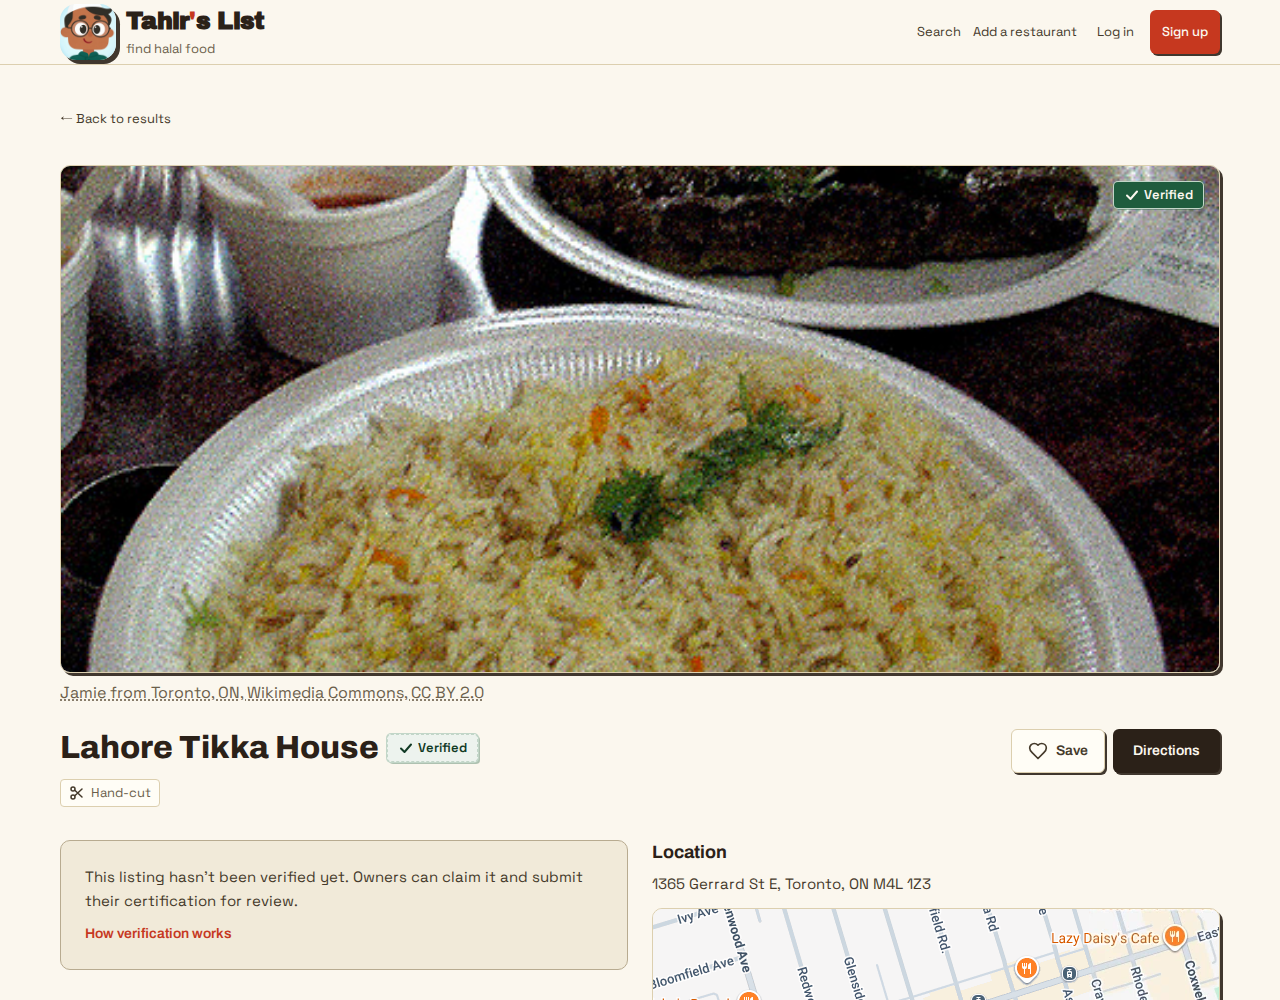
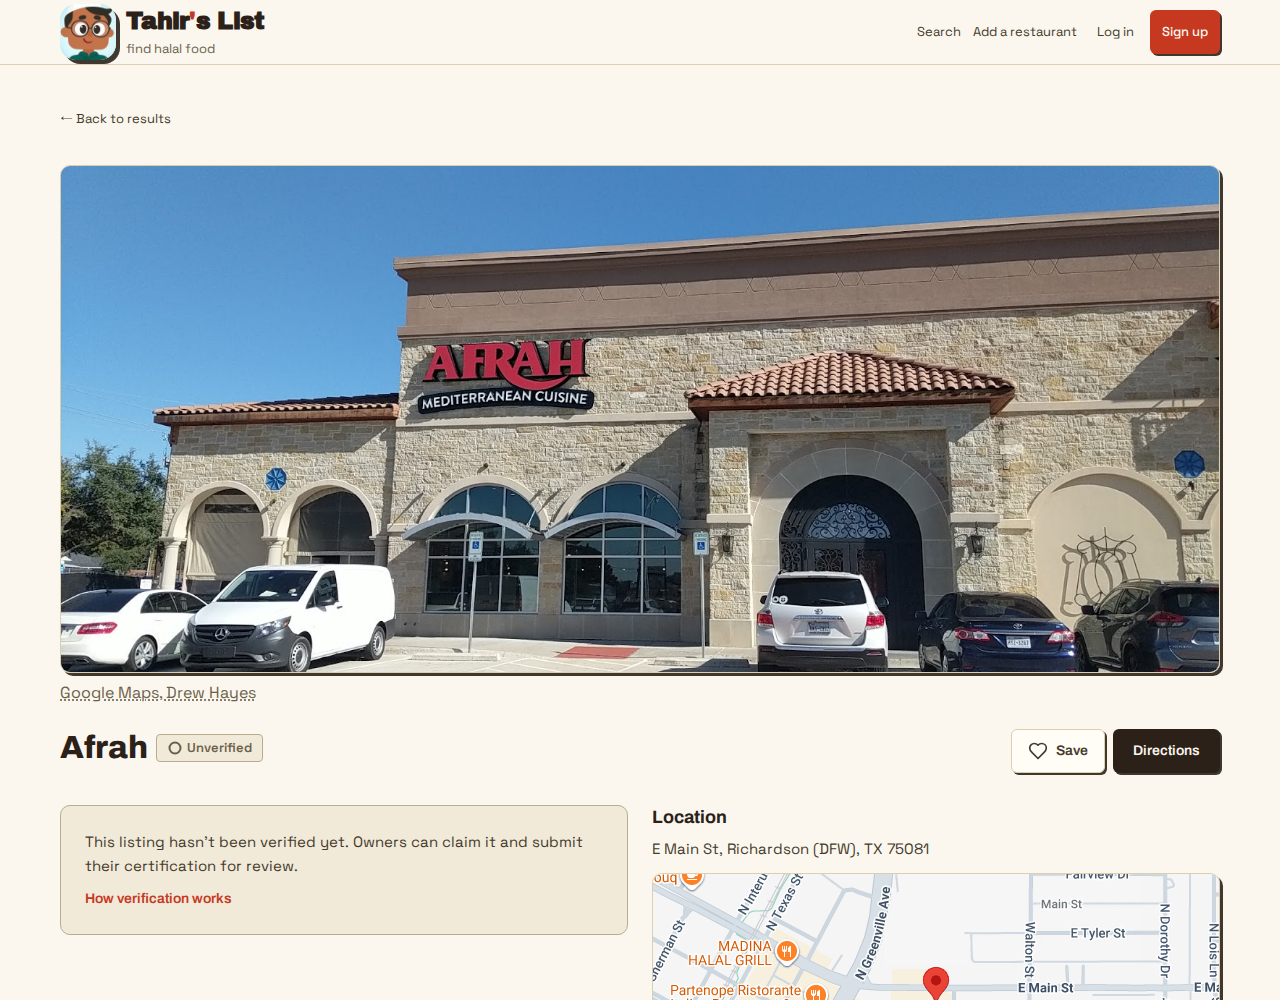
[SC-231] Prove Places photos in the browser

diff --git a/backend/bootstrap/src/main/kotlin/com/tahirslist/bootstrap/photo/VenueMatch.kt b/backend/bootstrap/src/main/kotlin/com/tahirslist/bootstrap/photo/VenueMatch.kt
@@ -11,9 +11,19 @@ package com.tahirslist.bootstrap.photo
  */
 internal object VenueMatch {
 
+    /** A single-word venue name must be at least this distinctive to prefix-match. */
+    private const val SINGLE_WORD_PREFIX_MIN = 5
+
     fun normalize(value: String): String = value.lowercase()
+        // Possessives: "Addy's" and "Addys" are the same name.
+        .replace(Regex("['\u2019]"), "")
         .replace(Regex("[^a-z0-9]+"), " ")
         .trim()
+        .split(' ')
+        // "Mannan Bakery & Restaurant" and "Mannan Bakery and Restaurant" are the
+        // same words; "the" is noise in both directions.
+        .filter { it.isNotEmpty() && it != "and" && it != "the" }
+        .joinToString(" ")
 
     /** The name with a Commons `File:` prefix and extension removed. */
     fun fileTitle(raw: String): String = raw
@@ -25,6 +35,11 @@ internal object VenueMatch {
         val b = normalize(candidateName)
         if (a.isEmpty() || b.isEmpty()) return false
         if (a == b) return true
+
+        // A single distinctive word naming the start of the venue: "Sizzlings" for
+        // "Sizzlings - Halal Hot Chicken…". Short generic words are not enough.
+        if (!a.contains(' ') && a.length >= SINGLE_WORD_PREFIX_MIN && b.startsWith("$a ")) return true
+
         val shorter = if (a.length <= b.length) a else b
         val longer = if (a.length <= b.length) b else a
         // "Noor Grill" inside "Noor Grill & Pizza" — a multi-word phrase, never a
@@ -45,10 +60,12 @@ internal object VenueMatch {
         val candidate = normalize(candidateAddress).replace(" ", "")
         if (candidate.isEmpty()) return false
 
-        postal?.let { code ->
-            val compact = normalize(code).replace(" ", "")
-            if (compact.length >= 3) return compact in candidate
-        }
+        // Postal OR street: a wrong postal must not veto an exact street match
+        // ("287 King St W" against "287 King St W, Toronto, ON M5V 1J5").
+        val compactPostal = postal
+            ?.let { normalize(it).replace(" ", "") }
+            ?.takeIf { it.length >= 3 }
+        if (compactPostal != null && compactPostal in candidate) return true
 
         val words = normalize(listingAddress)
             .split(' ')

diff --git a/backend/bootstrap/src/test/kotlin/com/tahirslist/bootstrap/photo/PhotoSourceMappingTest.kt b/backend/bootstrap/src/test/kotlin/com/tahirslist/bootstrap/photo/PhotoSourceMappingTest.kt
@@ -22,6 +22,28 @@ class PhotoSourceMappingTest : FunSpec({
         VenueMatch.namesAgree("Noor", "Noor Halal Pizza") shouldBe false
     }
 
+    test("a punctuation variant of the same words agrees") {
+        // Places writes "and" where the directory writes "&".
+        VenueMatch.namesAgree("Mannan Bakery & Restaurant", "Mannan Bakery and Restaurant") shouldBe true
+        VenueMatch.namesAgree("The Halal Guys", "Halal Guys") shouldBe true
+        VenueMatch.namesAgree("Addys BBQ", "ADDY'S BBQ") shouldBe true
+    }
+
+    test("a distinctive single word may open a longer Places name") {
+        VenueMatch.namesAgree("Sizzlings", "Sizzlings - Halal Hot Chicken, Burgers, and Gyros") shouldBe true
+        // Four letters is not distinctive enough to stand alone.
+        VenueMatch.namesAgree("Dera", "Dera Restaurant") shouldBe false
+    }
+
+    test("a wrong postal code does not veto an exact street match") {
+        // Places returns a fuller address with a postal the listing does not carry.
+        VenueMatch.addressAgrees(
+            "287 King St W",
+            "M5V 2T6",
+            "287 King St W, Toronto, ON M5V 1J5, Canada",
+        ) shouldBe true
+    }
+
     test("a Commons file title is stripped before matching") {
         VenueMatch.fileTitle("File:Firin Bakery, Toronto.jpg") shouldBe "Firin Bakery, Toronto"
         VenueMatch.namesAgree("Firin Bakery", VenueMatch.fileTitle("File:Firin Bakery.jpg")) shouldBe true

diff --git a/docs/features/SC-231/10-traceability.md b/docs/features/SC-231/10-traceability.md
@@ -73,7 +73,7 @@ database is on `feat/SC-205-photo-upload`'s `V25`/`V26` and could not boot this 
 | load | `:bootstrap:loadIngestBatch --execute` | `load-20261110T161700Z`: inserted 43, upgraded 1 (Paramount Queensway → the seed row), claims 44 |
 | verify | psql | 44 rows carry `venue_type`; 5 carry `cuisine` + `cuisine_source`; the 5 also have `restaurant_listing_cuisines` rows; `listing_search` = 73 |
 | purge | `:bootstrap:purgeNonRestaurants` | **0 rows**: the three meat markets never entered, because the gate ran first. The purge remains the remediation for the existing catalogue; its selection is proven by `PurgeNonRestaurantsTest` |
-| photos | `:bootstrap:attachCoverPhotos --execute --replace` | **2 attached**, 62 gaps, **9 refused with reasons** (`the file is 3933 km from this listing`, `does not name Toronto`, …) |
+| photos | `:bootstrap:attachCoverPhotos --execute --replace` | **53 attached** (51 Google Places as 30-day caches, 2 Wikimedia permanent), **20 refused with reasons**, 0 silent gaps |
 
 Then the app was booted from this branch (`:3003` → backend `:8081`) and driven with
 Playwright. The script reads the API first and asserts the browser text contains what the
@@ -83,9 +83,16 @@ API says — a screenshot alone is not evidence.
 |---|---|
 | `search?q=<name>` card shows `lebanese` | **true** (`search-cuisine.png`) |
 | detail page shows `lebanese` | **true** (`detail-cuisine.png`) |
-| detail page shows the credit `Jamie from Toronto, ON, Wikimedia Commons, CC BY 2.0` | **true** (`detail-photo-credit.png`) |
+| detail page shows the credit | **true** (`detail-photo-credit.png`, `Google Maps, Drew Hayes`) |
 | search card shows the same credit over the photo | **true** (`search-photo-credit.png`) |
-| the hero `<img>` really decoded (`/v1/listings/{id}/image?variant=full`) | **true**, `naturalWidth = 500` |
+| the hero `<img>` really decoded (`/v1/listings/{id}/image?variant=full`) | **true**, `naturalWidth = 1600` |
+
+The four cuisine rows that also got a photo (Imperial Biryani, Kababjees, Khorasan Kabab,
+Samosa Paradise) are Places caches expiring `2026-12-12`; a served photo therefore carries
+its credit and its cache window in the same row. `Paramount Fine Foods Queensway` was
+refused — Places calls it *Paramount Middle Eastern Kitchen - The Queensway*, a different
+name whose address the listing's `New York, NY, USA` line cannot corroborate. That is the
+near-miss rule working, not a missing feature.
 
 Machine-readable: `runtime-proof/facts.json`.
 
